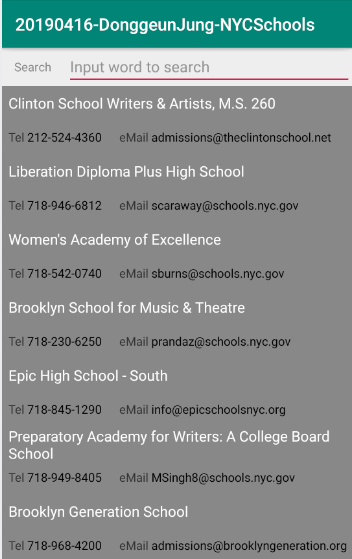
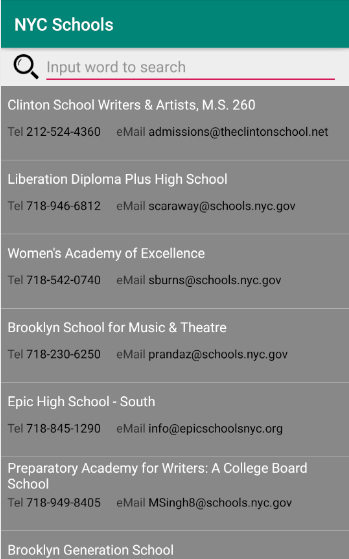
GUI Design changed

diff --git a/app/src/main/java/com/donggeunjung/nycschools/view/ListFragment.java b/app/src/main/java/com/donggeunjung/nycschools/view/ListFragment.java
@@ -3,6 +3,7 @@ package com.donggeunjung.nycschools.view;
 import android.databinding.DataBindingUtil;
 import android.os.Bundle;
 import android.support.v4.app.Fragment;
+import android.support.v7.widget.DividerItemDecoration;
 import android.support.v7.widget.LinearLayoutManager;
 import android.text.Editable;
 import android.text.TextWatcher;
@@ -72,6 +73,7 @@ public class ListFragment extends Fragment {
         return v;
     }
 
+    // Text changing listener of Search EditText
     TextWatcher mSearchTextWatcher = new TextWatcher() {
         // When input text changing
         @Override
@@ -105,6 +107,9 @@ public class ListFragment extends Fragment {
         mBinding.rvSchool.setAdapter( rvAdapter );
         mBinding.rvSchool.setLayoutManager(new LinearLayoutManager(getContext(),
                 LinearLayoutManager.VERTICAL, false));
+        // Show Item Divider on RecyclerView
+        mBinding.rvSchool.addItemDecoration(new DividerItemDecoration(getContext(), 1));
+
         // Request School list to server
         if( loadData )
             mViewModel.getSchoolList();
